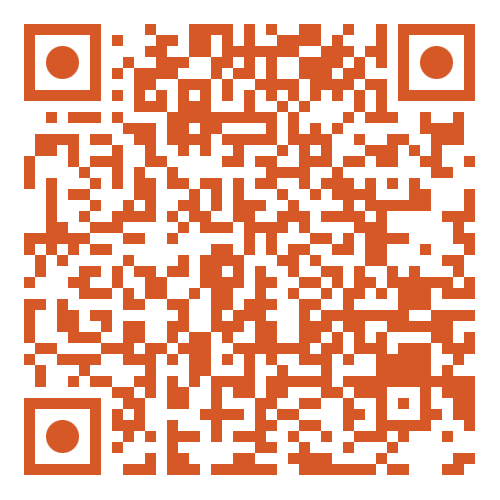
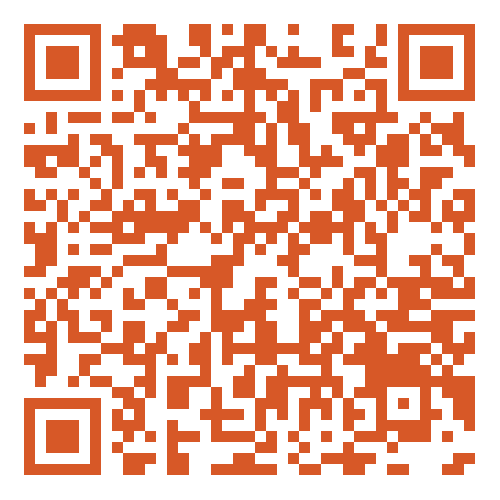
feat: use the HackHers offer QR and state the credit claim rules
The credits slides carried the QR code from an earlier event. Replace it
with the HackHers offer code and link the slide to the same URL.

Students were also missing the rules that decide whether a claim works:
submit the Claude Console Organization ID rather than a Claude.ai user ID
(the system rejects the user ID), one claim per person, credits usable in
Claude Code and the API but not the Claude.ai app, link expiration shown
on the offer page, and credits issued within a couple of minutes. Slides
4-6, their speaker notes, and the facilitator guide now say so, and the
earlier "one to two business days" wording is gone. Slide 4 copy is
tightened and the QR slightly smaller so the slide fits above the footer.

diff --git a/slides/style.css b/slides/style.css
@@ -133,12 +133,12 @@
 .slidev-layout.presenters-slide .takeaway{margin-top:18px;margin-bottom:0;font-size:23px;}
 
 /* API credits onboarding: slides 3-6. */
-.slidev-layout .credits{display:grid;grid-template-columns:1.15fr 1fr;gap:40px;align-items:start;}
-.slidev-layout .credits .amount{font-size:66px;line-height:1;font-weight:600;color:#e7a58d;margin:0 0 18px;}
+.slidev-layout .credits{display:grid;grid-template-columns:1.4fr 1fr;gap:36px;align-items:start;}
+.slidev-layout .credits .amount{font-size:56px;line-height:1;font-weight:600;color:#e7a58d;margin:0 0 18px;}
 .slidev-layout .credits ol{list-style:decimal;margin:12px 0 0;padding-left:28px;}
-.slidev-layout .credits li{font-size:20px;line-height:1.45;margin:10px 0;}
+.slidev-layout .credits li{font-size:19px;line-height:1.42;margin:9px 0;}
 .slidev-layout .qr{display:flex;flex-direction:column;align-items:center;gap:12px;text-decoration:none;color:#c8b8ab;font-size:13px;letter-spacing:1px;}
-.slidev-layout .qr img{width:340px;height:340px;background:#fff;padding:14px;border-radius:8px;box-sizing:border-box;}
+.slidev-layout .qr img{width:300px;height:300px;background:#fff;padding:14px;border-radius:8px;box-sizing:border-box;}
 .slidev-layout .qr:hover,.slidev-layout .qr:focus-visible{color:#fff;outline:1px solid #d97757;}
 .slidev-layout .shot{display:block;max-height:430px;max-width:100%;width:auto;margin:0 auto;border:1px solid #59524b;border-radius:8px;}
 .slidev-layout .shot-short{max-height:320px;margin-top:4px;}

diff --git a/slides/slides.md b/slides/slides.md
@@ -74,12 +74,12 @@ class: content
 
 # Claim your $50 in API credits.
 
-<div class="credits"><div><p class="amount">$50</p><p>Anthropic is covering the API usage behind every Claude Code call you make today.</p><ol><li>Scan the code. Sign in to the Claude Console, or create an account.</li><li>Submit the short credit application.</li><li>Sign in to Claude Code with that same account. Next three slides.</li></ol></div><a class="qr" href="https://platform.claude.com/offers/b5a8e762-e0a0-46fe-a80b-3f6e66f563dc" target="_blank" rel="noopener noreferrer" aria-label="Open the Anthropic API credits offer in a new tab"><img src="/assets/api-credits-qr.png" alt="QR code linking to the Anthropic API credits offer" /><span>Scan, or click to open ↗</span></a></div><div class="takeaway">Do this first. Everything from checkpoint 1 onward needs a working sign-in.</div>
+<div class="credits"><div><p class="amount">$50</p><p>Anthropic is covering your Claude Code API usage today.</p><ol><li>Scan the code. Sign in to the Claude Console (console.anthropic.com) or create an account.</li><li>Submit your Console <b>Organization ID</b>, not a Claude.ai user ID. A user ID is rejected.</li><li>Wait a couple of minutes, then sign in to Claude Code with that account.</li></ol></div><a class="qr" href="https://platform.claude.com/offers/2239eaf0-dbc5-49ed-b6b7-1f1fe14ea78e" target="_blank" rel="noopener noreferrer" aria-label="Open the Anthropic API credits offer in a new tab"><img src="/assets/api-credits-qr.png" alt="QR code linking to the Anthropic API credits offer" /><span>Scan, or click to open ↗</span></a></div><div class="takeaway">Do this first. One claim each. API only: Claude Code, not the Claude.ai app. The link expires; the date is on the page.</div>
 
 <div class="source">Anthropic API credits offer · organizer’s QR code · sponsorship wording per the organizer</div>
 
 <!--
-Have every pair scan now, before the copilot slide, so applications are in before hands-on work begins. The offer page states that credits arrive within one to two business days; confirm the arrangement for this event before promising same-day access. Credits cover Claude API usage only, not claude.ai subscriptions. Never project an API key.
+Have every pair scan now, before the copilot slide. Credits are issued within a couple of minutes of a valid claim; there is no overnight wait. The common failure is pasting a Claude.ai user ID instead of the Console Organization ID, which the system rejects; they can resubmit with the right ID. Each person can claim once, so they should be signed in to the Console account they will use in Claude Code. Credits cover API usage only, not claude.ai subscriptions. Never project an API key.
 -->
 
 ---
@@ -90,12 +90,12 @@ class: content
 
 # Apply for credits. Two minutes.
 
-<img class="shot" src="/assets/api-credits-form.png" alt="Anthropic API credits application page with the apply-for-credits form" /><p class="shot-caption">Sign in, confirm your name and organization, submit. Credits cover the Claude API only, not claude.ai subscriptions, and expire six months after they are granted.</p>
+<img class="shot" src="/assets/api-credits-form.png" alt="Anthropic API credits application page with the apply-for-credits form" /><p class="shot-caption">Sign in, paste your Console <b>Organization ID</b>, submit. Find it in the Console under Settings → Organization. Credits cover the Claude API only, not Claude.ai, and each person can claim once.</p>
 
 <div class="source">Screenshot: Anthropic API credits application page, organizer’s account · fields shown are the organizer’s, not a template</div>
 
 <!--
-Walk through the form once on the projector, or use this screenshot. Students use their own email. Replace this screenshot with the current offer page before presenting; the event name and deadline shown are from an earlier offer.
+Walk through the form once on the projector. This screenshot is from an earlier offer page; replace it with this event’s page before presenting. Show where the Organization ID lives in the Console so nobody pastes a Claude.ai user ID, and point out the link expiration date on the page.
 -->
 
 ---
@@ -106,12 +106,12 @@ class: content
 
 # Your credits live in the Claude Console.
 
-<img class="shot" src="/assets/claude-console-dashboard.png" alt="Claude Console dashboard showing organization credits, monthly spend, and available models" /><p class="shot-caption">platform.claude.com · <b>Organization credits</b> is the balance Claude Code draws from. You do not need to create an API key today.</p>
+<img class="shot" src="/assets/claude-console-dashboard.png" alt="Claude Console dashboard showing organization credits, monthly spend, and available models" /><p class="shot-caption">Claude Console dashboard · <b>Organization credits</b> is the balance Claude Code draws from. It updates a couple of minutes after a valid claim. You do not need to create an API key today.</p>
 
 <div class="source">Screenshot: Claude Console dashboard, organizer’s account, July 2026 · balances shown are the organizer’s</div>
 
 <!--
-Point at Organization credits and Spend this month. Everything else on this page is optional for the workshop. A student who sees a zero balance has not been granted credits yet; pair them with a working laptop and keep going.
+Point at Organization credits and Spend this month. Everything else on this page is optional for the workshop. A student who still sees a zero balance after a few minutes most likely submitted a Claude.ai user ID; have them resubmit with the Console Organization ID. Meanwhile pair them with a working laptop and keep going.
 -->
 
 ---

diff --git a/slides/SOURCES.md b/slides/SOURCES.md
@@ -36,16 +36,20 @@ subscription-only shell setup is copied into the student flow.
 
 Slides 4–7 are the organizer’s sponsored-access walkthrough, adapted on
 September 17, 2026 from the organizer’s existing slides (API Credits.pptx). The
-QR code on slide 4 encodes
-https://platform.claude.com/offers/b5a8e762-e0a0-46fe-a80b-3f6e66f563dc , an
-Anthropic API credits offer page; the slide links to the same URL. Slides 5–7
-show the organizer’s own screenshots of the Anthropic credits application form,
-the Claude Console dashboard (platform.claude.com/dashboard), and the Claude Code
-`/login` prompt. Balances, names, event titles, and dates in those screenshots
-belong to the organizer’s account and earlier events; they are not claims about
-student accounts or this event’s deadline. Credit terms quoted on slide 5 (API
-only, not subscriptions, six-month expiry) are taken from the application page
-shown. Login option wording follows the Claude Code prompt in the screenshot.
+QR code on slide 4 is the event offer code supplied by the organizer on
+September 17, 2026; it decodes to
+https://platform.claude.com/offers/2239eaf0-dbc5-49ed-b6b7-1f1fe14ea78e , an
+Anthropic API credits offer page, and the slide links to the same URL. Slides 5–7
+show the organizer’s own screenshots of an earlier Anthropic credits application
+form, the Claude Console dashboard (platform.claude.com/dashboard), and the
+Claude Code `/login` prompt. Balances, names, event titles, and dates in those
+screenshots belong to the organizer’s account and earlier events; they are not
+claims about student accounts or this event’s deadline. Claim rules stated on
+slides 4–6 (API only, not Claude.ai; Console Organization ID required and a
+Claude.ai user ID rejected; one claim per person; link expiration shown on the
+offer page; credits issued within minutes) were supplied by the organizer on
+September 17, 2026. Login option wording follows the Claude Code prompt in the
+screenshot.
 
 ## Engineering principles and workflow scope
 

diff --git a/slides/ASSETS.md b/slides/ASSETS.md
@@ -18,14 +18,15 @@ Presenter bios are concise paraphrases of public professional sources, pending a
   attributed to Chorouk Malmoum. Slide 8 displays a thumbnail linked to the
   full-size image in a new tab. No post permalink was supplied.
 
-- `public/assets/api-credits-qr.png`, `public/assets/api-credits-form.png`,
-  `public/assets/claude-console-dashboard.png`, `public/assets/claude-code-login.png`:
-  unmodified images extracted from the organizer’s API Credits.pptx on
-  September 17, 2026, for slides 4–7. The QR code encodes the organizer’s
-  Anthropic API credits offer URL (see SOURCES.md). The screenshots show the
-  organizer’s own Anthropic credits application page, Claude Console dashboard,
-  and Claude Code login prompt. Replace the QR code and application screenshot
-  when a new offer is issued for this event.
+- `public/assets/api-credits-qr.png`: the event offer QR code supplied by the
+  organizer on September 17, 2026, unmodified; it encodes the offer URL recorded
+  in SOURCES.md. Used on slide 4.
+- `public/assets/api-credits-form.png`, `public/assets/claude-console-dashboard.png`,
+  `public/assets/claude-code-login.png`: unmodified images extracted from the
+  organizer’s API Credits.pptx on September 17, 2026, for slides 5–7. They show
+  the organizer’s own earlier Anthropic credits application page, Claude Console
+  dashboard, and Claude Code login prompt. Replace the application screenshot
+  with this event’s offer page when available.
 
 - `public/assets/claude-terminal.png` and `public/assets/claude-desktop.png`:
   organizer-supplied screenshots, September 17, 2026, used unmodified on slides

diff --git a/slides/INSTRUCTOR.md b/slides/INSTRUCTOR.md
@@ -63,10 +63,12 @@ not a research finding or a claim that autonomous execution is inherently wrong.
 
 Slides 4–7 walk students through claiming the sponsored API credits and choosing
 the Anthropic Console login inside Claude Code. Have every pair scan the offer on
-slide 4 right after the workshop links on slide 3. Confirm the QR code and offer
-screenshot are the ones issued for this event before presenting. The offer page
-states credits arrive within one to two business days of applying; confirm the
-arrangement for this event before promising same-day access.
+slide 4 right after the workshop links on slide 3. The QR code is this event’s
+offer; the form screenshot on slide 5 is from an earlier offer until replaced.
+Credits are issued within a couple of minutes of a valid claim. Students must
+submit the Organization ID from the Claude Console, not a Claude.ai user ID,
+which the system rejects. Each person can claim once, and the link’s expiration
+date is shown on the offer page.
 
 Use the organizer’s API access setup. Never project keys. If a pair is blocked,
 pair them on a working laptop. They may draft the spec manually while resolving

diff --git a/slides/VALIDATION.md b/slides/VALIDATION.md
@@ -15,9 +15,11 @@
   reaching the source footer. All four new images loaded at native resolution.
 - Section rail targets were checked after the shift: slides 10, 13, 29, 34,
   36, and 46 opened the expected headings and marked the matching section current.
-- The QR code encodes an earlier Anthropic offer URL and the application
-  screenshot shows an earlier event header. Both are flagged in the speaker
-  notes and ASSETS.md for replacement before the event.
+- The QR code was replaced with the event offer code supplied by the organizer
+  on September 17, 2026; it decodes to the URL recorded in SOURCES.md and the
+  slide link matches it. The application screenshot still shows an earlier
+  event header and is flagged in the speaker notes and ASSETS.md for
+  replacement before the event.
 
 ## Student starter and reference separation — September 16, 2026
 
